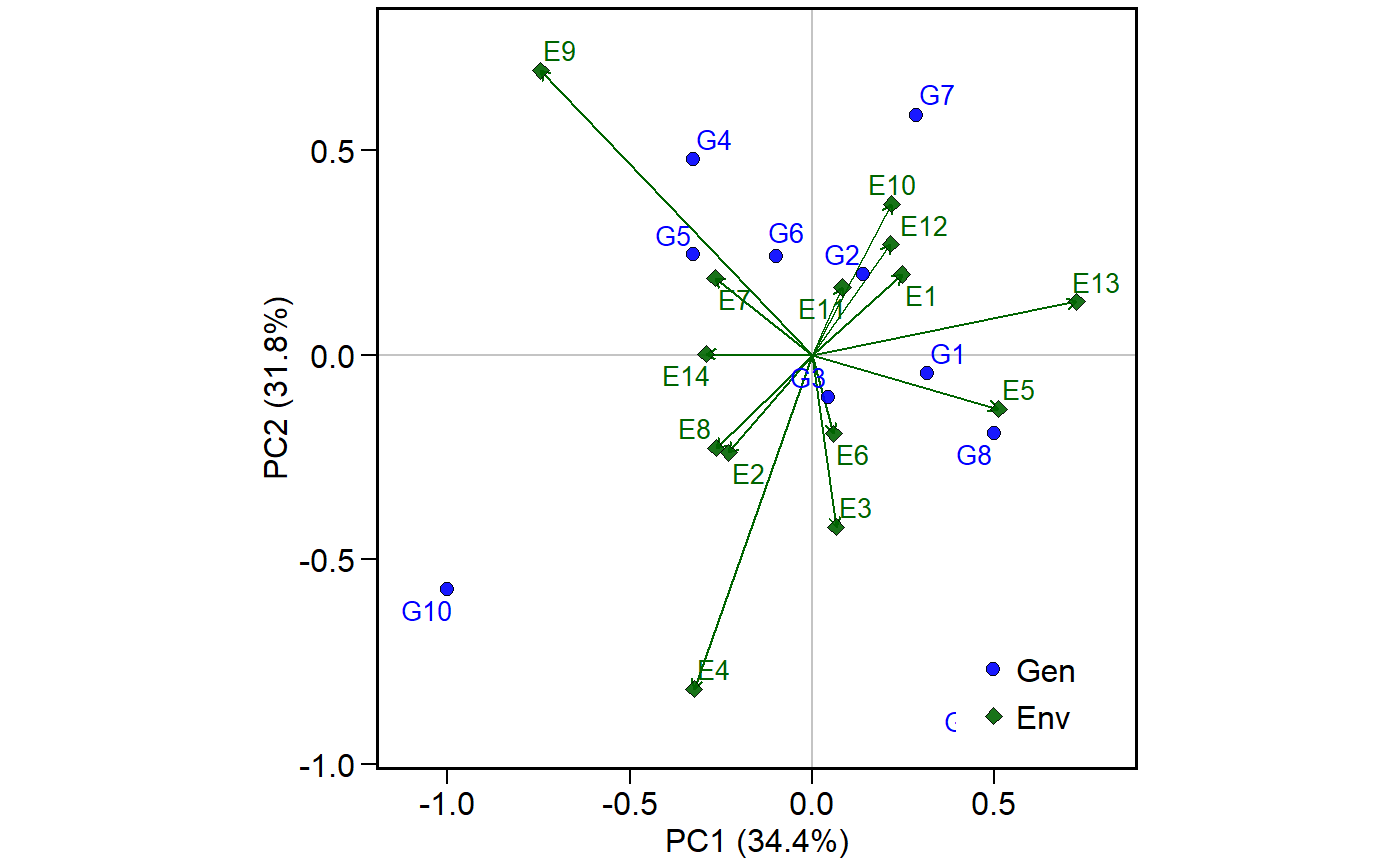
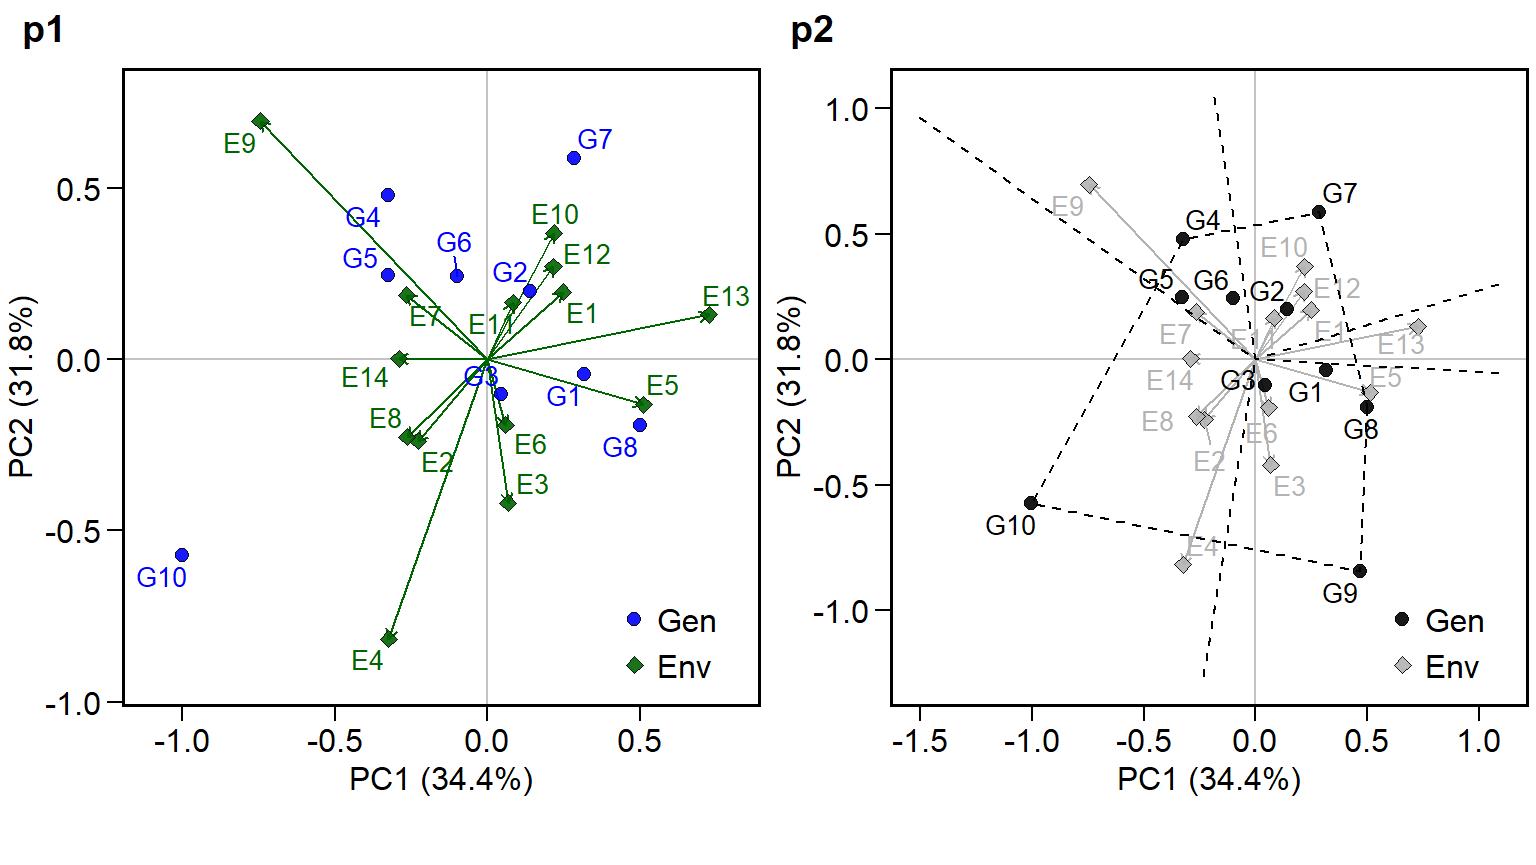
Index

diff --git a/docs/index.html b/docs/index.html
@@ -183,9 +183,24 @@ devtools<span class="op">::</span><span class="kw"><a href="https://www.rdocumen
 <div id="biplots" class="section level3">
 <h3 class="hasAnchor">
 <a href="#biplots" class="anchor"></a>Biplots</h3>
-<p>ggplot2-based graphics are easily obtained in METAAB package. For example, the well-known AMMI2 biplot may be obtained as follows. Please, note that since <code><a href="reference/WAAS.AMMI.html">WAAS.AMMI()</a></code> function allows analyzing multiple variables at the same time, e.g., resp = c(v1, v2,…), the output <code>model</code> is a list, in this case with one element, GY.</p>
-<div class="sourceCode"><pre class="sourceCode r"><code class="sourceCode r"><span class="kw"><a href="reference/plot.scores.html">plot.scores</a></span>(model<span class="op">$</span>GY)</code></pre></div>
-<p><img src="index_files/figure-html/unnamed-chunk-4-1.png" width="700"></p>
+<p>ggplot2-based graphics are easily obtained in METAAB package. For example, the well-known AMMI2 biplot may be obtained as follows. Please, note that since <code><a href="reference/WAAS.AMMI.html">WAAS.AMMI()</a></code> function allows analyzing multiple variables at the same time, e.g., resp = c(v1, v2, …), the output <code>model</code> is a list, in this case with one element, GY.</p>
+<div class="sourceCode"><pre class="sourceCode r"><code class="sourceCode r"><span class="kw"><a href="https://www.rdocumentation.org/packages/base/topics/library">library</a></span>(cowplot)</code></pre></div>
+<pre><code>## Carregando pacotes exigidos: ggplot2</code></pre>
+<pre><code>## 
+## Attaching package: 'cowplot'</code></pre>
+<pre><code>## The following object is masked from 'package:ggplot2':
+## 
+##     ggsave</code></pre>
+<div class="sourceCode"><pre class="sourceCode r"><code class="sourceCode r">p1 =<span class="st"> </span><span class="kw"><a href="reference/plot.scores.html">plot.scores</a></span>(model<span class="op">$</span>GY)
+p2 =<span class="st"> </span><span class="kw"><a href="reference/plot.scores.html">plot.scores</a></span>(model<span class="op">$</span>GY,
+                 <span class="dt">type =</span> <span class="dv">1</span>,
+                 <span class="dt">polygon =</span> <span class="ot">TRUE</span>,
+                 <span class="dt">col.gen =</span> <span class="st">"black"</span>,
+                 <span class="dt">col.env =</span> <span class="st">"gray70"</span>,
+                 <span class="dt">col.segm.env =</span> <span class="st">"gray70"</span>,
+                 <span class="dt">axis.expand =</span> <span class="fl">1.5</span>)
+<span class="kw"><a href="https://www.rdocumentation.org/packages/cowplot/topics/plot_grid">plot_grid</a></span>(p1, p2, <span class="dt">labels =</span> <span class="kw"><a href="https://www.rdocumentation.org/packages/base/topics/c">c</a></span>(<span class="st">"p1"</span>,<span class="st">"p2"</span>))</code></pre></div>
+<p><img src="index_files/figure-html/unnamed-chunk-4-1.png" width="768"></p>
 </div>
 <div id="s3-method-predict" class="section level3">
 <h3 class="hasAnchor">
@@ -373,8 +388,13 @@ G4
 <div id="plotting-the-blups-for-genotypes" class="section level2">
 <h2 class="hasAnchor">
 <a href="#plotting-the-blups-for-genotypes" class="anchor"></a>Plotting the BLUPs for genotypes</h2>
-<div class="sourceCode"><pre class="sourceCode r"><code class="sourceCode r"><span class="kw"><a href="reference/plot.blup.html">plot.blup</a></span>(model2<span class="op">$</span>GY)</code></pre></div>
-<p><img src="index_files/figure-html/unnamed-chunk-7-1.png" width="700"></p>
+<div class="sourceCode"><pre class="sourceCode r"><code class="sourceCode r">p1 =<span class="st"> </span><span class="kw"><a href="reference/plot.blup.html">plot.blup</a></span>(model2<span class="op">$</span>GY)
+p2 =<span class="st"> </span><span class="kw"><a href="reference/plot.blup.html">plot.blup</a></span>(model2<span class="op">$</span>GY,
+               <span class="dt">prob =</span> <span class="fl">0.1</span>,
+               <span class="dt">col.shape  =</span>  <span class="kw"><a href="https://www.rdocumentation.org/packages/base/topics/c">c</a></span>(<span class="st">"gray20"</span>, <span class="st">"gray80"</span>)) <span class="op">+</span><span class="st"> </span><span class="kw">coord_flip</span>()
+<span class="kw"><a href="https://www.rdocumentation.org/packages/cowplot/topics/plot_grid">plot_grid</a></span>(p1, p2,
+          <span class="dt">labels =</span> <span class="kw"><a href="https://www.rdocumentation.org/packages/base/topics/c">c</a></span>(<span class="st">"p1"</span>, <span class="st">"p2"</span>))</code></pre></div>
+<p><img src="index_files/figure-html/unnamed-chunk-7-1.png" width="768"></p>
 </div>
 <div id="blups-for-genotype-vs-environment-interaction" class="section level2">
 <h2 class="hasAnchor">
@@ -548,7 +568,7 @@ G4
 <div id="extending-the-metaab-package" class="section level1">
 <h1 class="hasAnchor">
 <a href="#extending-the-metaab-package" class="anchor"></a>Extending the METAAB package</h1>
-<p>The complete functionality of the METAAB package may be view at <a href="https://tiagoolivoto.github.io/METAAB/index.html" class="uri">https://tiagoolivoto.github.io/METAAB/index.html</a>.</p>
+<p>The complete functionality of the METAAB package may be view at <a href="https://tiagoolivoto.github.io/METAAB/index.html" class="uri">https://tiagoolivoto.github.io/METAAB/index.html</a>. You are welcome to visit it.</p>
 </div>
   </div>
 
